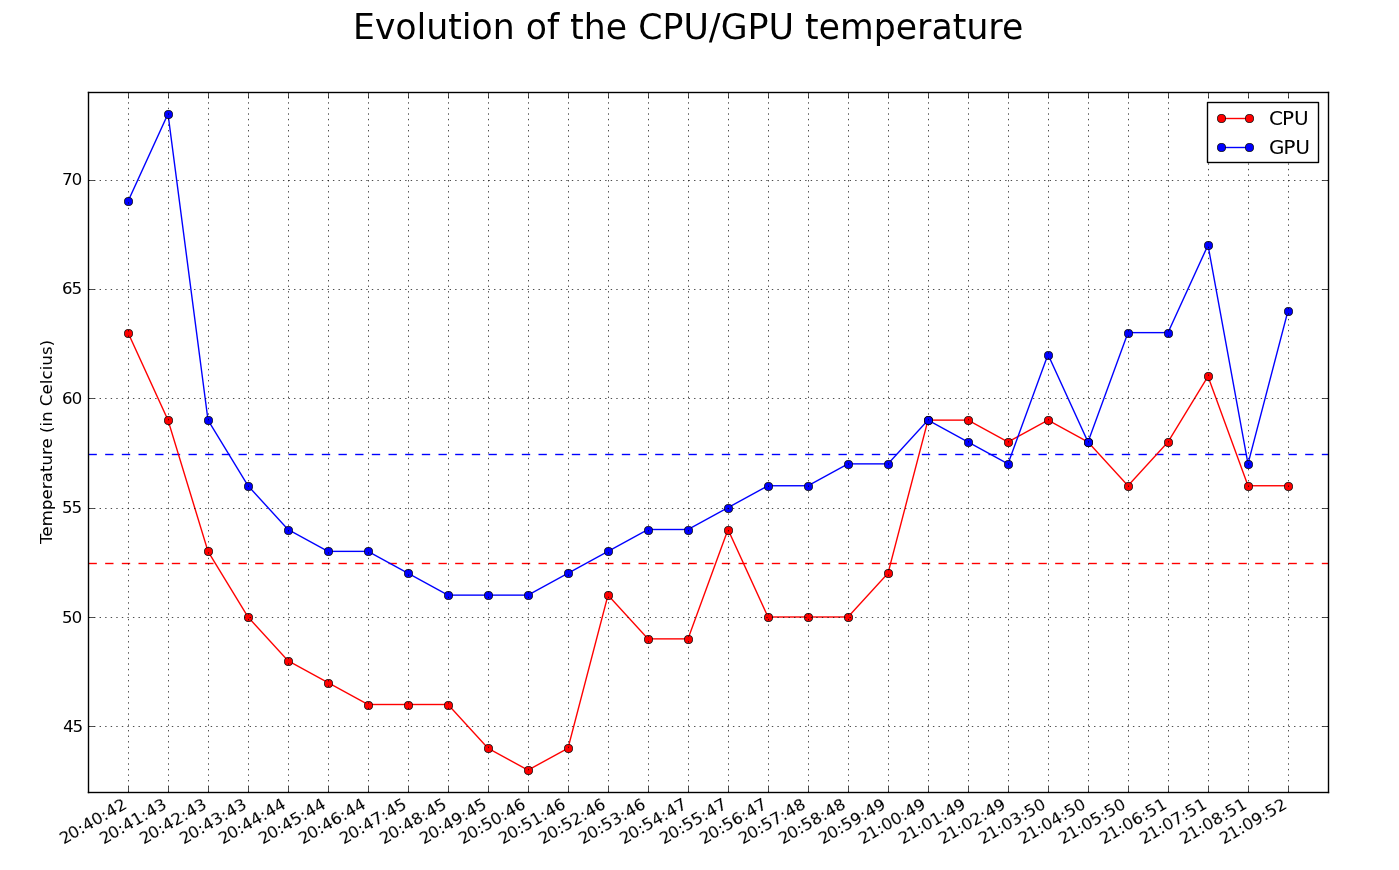
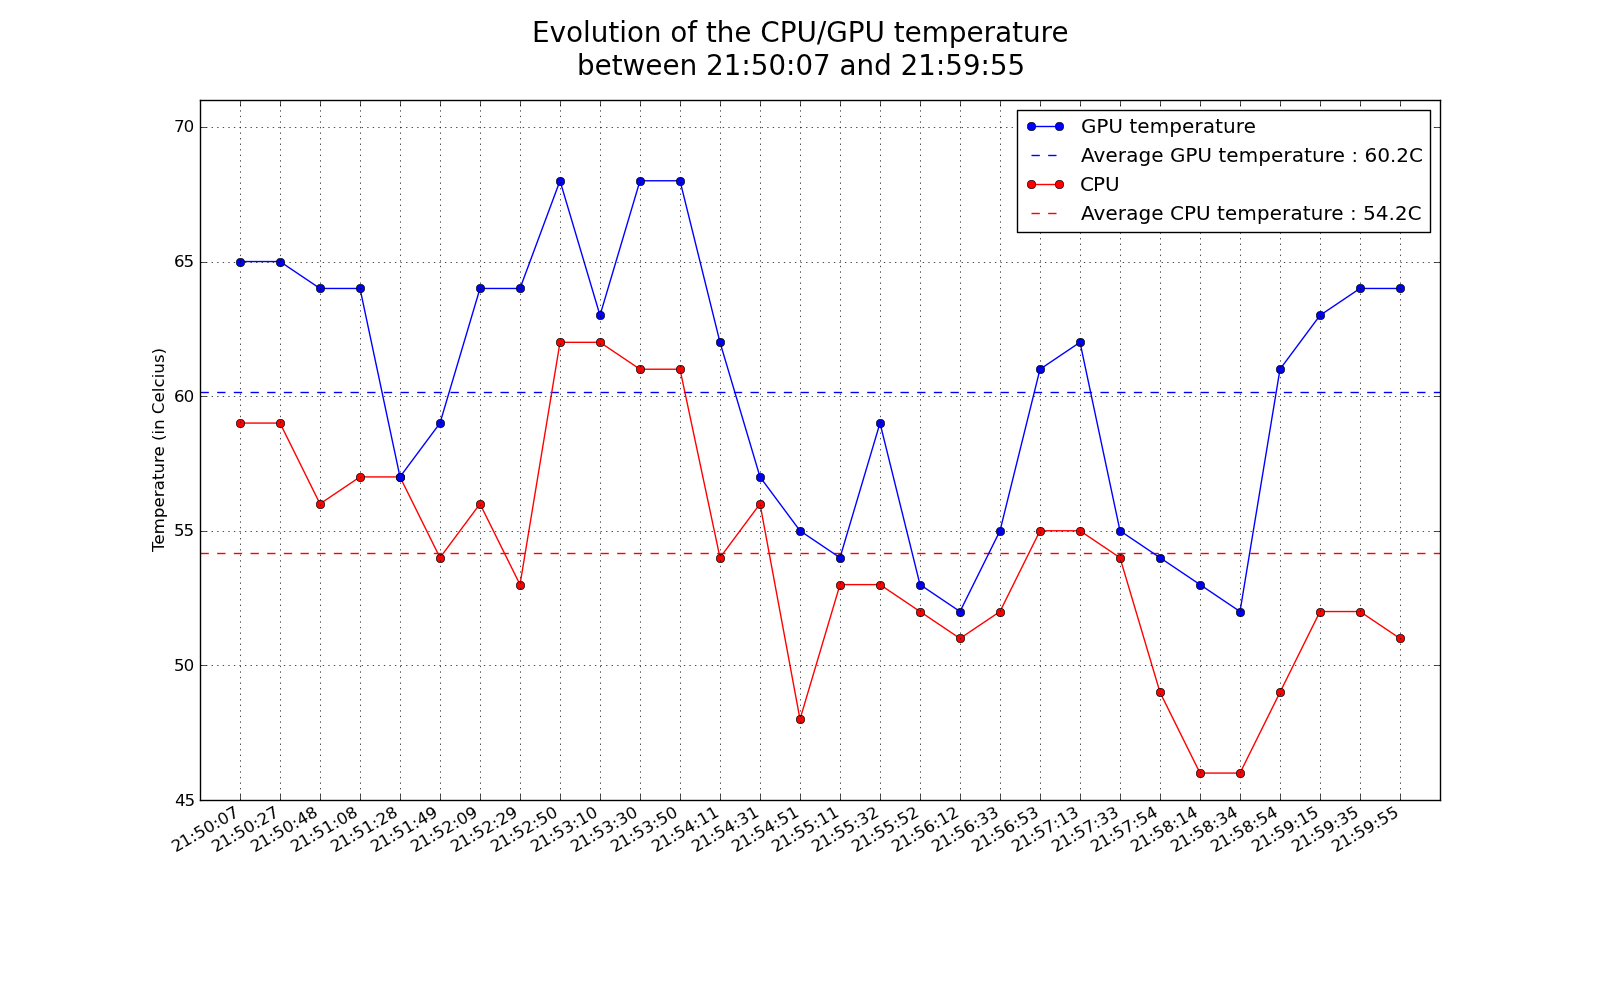
New graph display Signed-off-by: Balthazar Rouberol <rouberol.b@gmail.com>

diff --git a/coretemp.py b/coretemp.py
@@ -11,7 +11,7 @@ from math import ceil
 NB_PROBES = 30
 
 def probe_temperature():
-    """ Returns the CPU and GPU temperature, in degrees centigrade (Celcius) """
+    """ Return the CPU and GPU temperature, in degrees centigrade (Celcius) """
     cmd = "inxi -s | grep Sensors | awk '{print $6,$10}'" # Get CPU/GPU temperatures 
     # INFO : inxi is a shell command sending back all sorts of informations: disk usage, cpu clock, sensors information, etc
     p = subprocess.Popen(cmd, stdout=subprocess.PIPE, stderr=subprocess.PIPE, shell=True)
@@ -53,22 +53,25 @@ def plot_temperatures(cpu_temps, gpu_temps):
     plt.grid()
     x = range(len(cpu_temps))
 
-    cpu_avg_plot = plt.axhline(y=sum([t for t in cpu_temps.values()])/float(len([t for t in cpu_temps.values()])), xmin=0, xmax=len(cpu_temps), color='r', linestyle='--')
-    gpu_avg_plot = plt.axhline(y=sum([t for t in gpu_temps.values()])/float(len([t for t in gpu_temps.values()])), xmin=0, xmax=len(gpu_temps), color='b', linestyle='--')
+    cpu_avg = sum([t for t in cpu_temps.values()])/float(len([t for t in cpu_temps.values()]))
+    gpu_avg = sum([t for t in gpu_temps.values()])/float(len([t for t in gpu_temps.values()]))
+    cpu_avg_plot = plt.axhline(y=cpu_avg, xmin=0, xmax=len(cpu_temps), color='r', linestyle='--')
+    gpu_avg_plot = plt.axhline(y=gpu_avg, xmin=0, xmax=len(gpu_temps), color='b', linestyle='--')
     cpu_plot = plt.plot(x, cpu_temps.values(), 'ro-')
     gpu_plot = plt.plot(x, gpu_temps.values(), 'bo-')
     locs, labels = plt.xticks(x, cpu_temps.keys())
-    plt.ylim(ymax = max([temp for temp in cpu_temps.values() + gpu_temps.values()]) + 1,
-             ymin = min([temp for temp in cpu_temps.values() + gpu_temps.values()]) - 1)
-    plt.xlim(xmax=len(x), xmin=-1)
+    plt.ylim(ymin = min([temp for temp in cpu_temps.values() + gpu_temps.values()]) - 1,
+             ymax = max([temp for temp in cpu_temps.values() + gpu_temps.values()]) + 3)
+    plt.xlim(xmin=-1, xmax=len(x))
     fig.autofmt_xdate() 
     plt.ylabel("Temperature (in Celcius)")
-    plt.legend([cpu_plot, gpu_plot], ["CPU", "GPU"])
-    plt.suptitle("Evolution of the CPU/GPU temperature", fontsize=25)
+    plt.legend([gpu_plot, gpu_avg_plot, cpu_plot, cpu_avg_plot], 
+               ["GPU temperature", "Average GPU temperature : %.1fC" %(gpu_avg), "CPU", "Average CPU temperature : %.1fC" %(cpu_avg)],
+               loc = "best")
+    plt.suptitle("Evolution of the CPU/GPU temperature\nbetween %s and %s" %(cpu_temps.keys()[0], cpu_temps.keys()[-1]), fontsize=20)
     plt.savefig("CPU_GPU_temperature.png")
 
 if __name__ == '__main__': 
     
-    cpu, gpu = probe_for_duration(hour=0, minute=30, second=0)
+    cpu, gpu = probe_for_duration(hour=0, minute=10, second=0)
     plot_temperatures(cpu, gpu)
-
